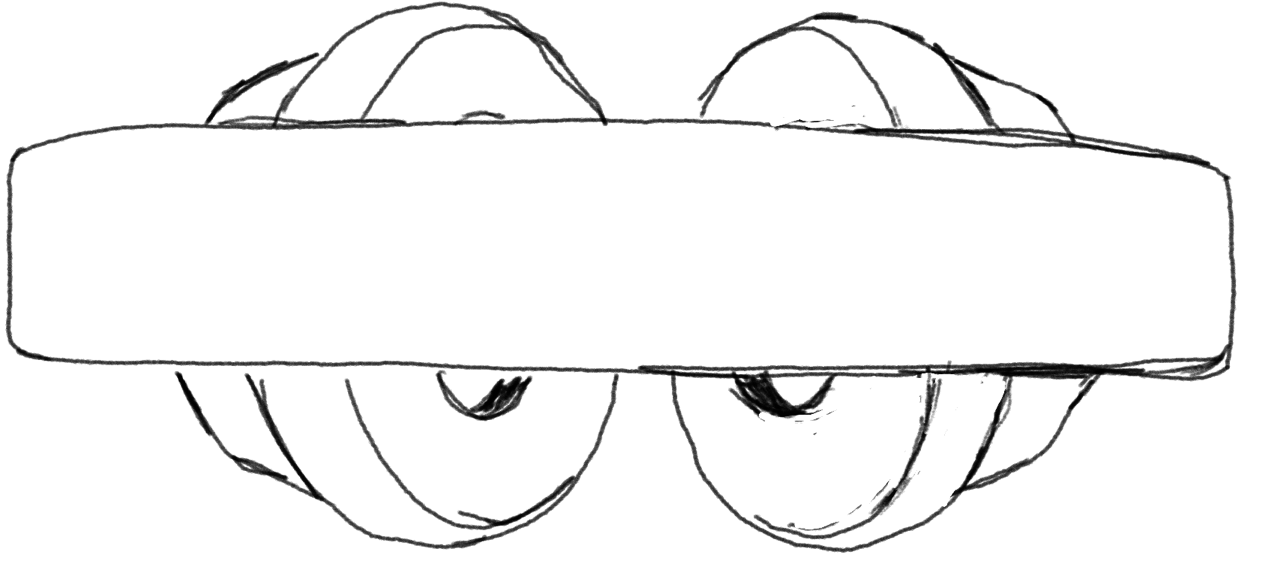
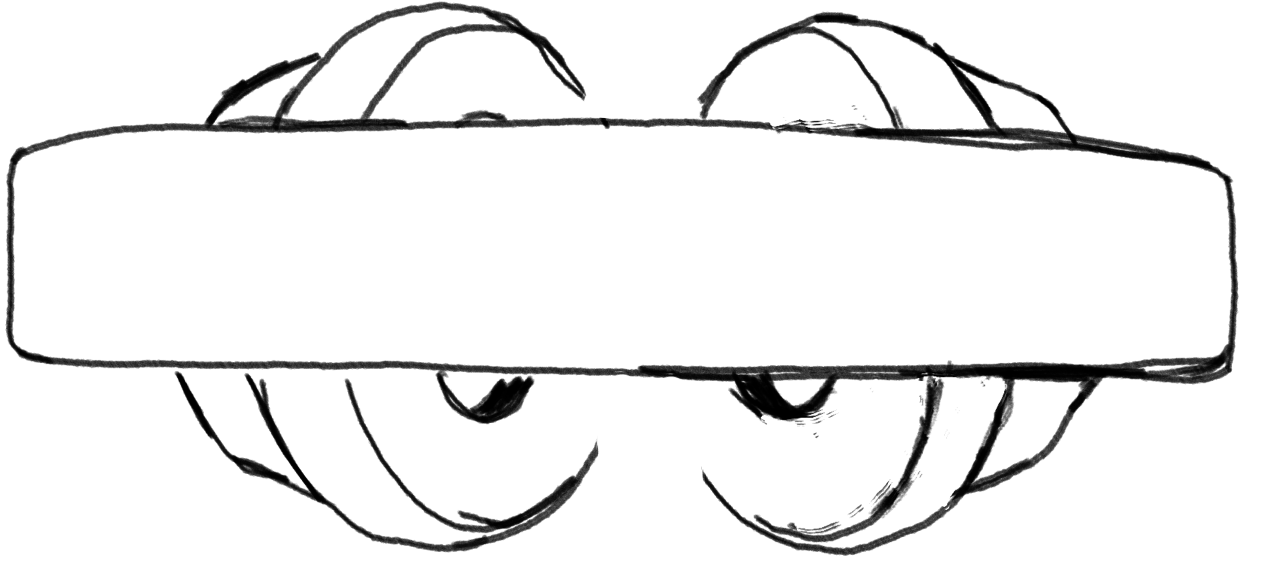
✨ Headphone stand!~

diff --git a/src/features/desk/presentation/headphones-lines.ts b/src/features/desk/presentation/headphones-lines.ts
@@ -1,4 +1,5 @@
 import type { CSSProperties } from 'react';
+import { color } from '../../../color.js';
 import { shade } from '../utils/color.js';
 
 export const HEADPHONES_LINE_COUNT = 3;
@@ -9,9 +10,17 @@ const HEADPHONES_FILL_RENDER_HEIGHT = 731;
 const HEADPHONES_LINE_RENDER_WIDTH = 1700;
 const HEADPHONES_LINE_RENDER_HEIGHT = 760;
 const HEADPHONES_LINE_OFFSET_X = 10;
-const HEADPHONES_LINE_OFFSET_Y = 4;
+const HEADPHONES_LINE_OFFSET_Y = 2;
+
+const HEADPHONES_STAND_SCALE = 1.7;
+const HEADPHONES_STAND_OFFSET_X = 12;
+const HEADPHONES_STAND_OFFSET_Y = -44;
+const HEADPHONES_STAND_RENDER_WIDTH = 515;
+const HEADPHONES_STAND_RENDER_HEIGHT = 752;
+
 const HEADPHONES_ASSET_PATH = 'lines/headphones';
 const HEADPHONES_ASSET_NAME = 'heaphones';
+const HEADPHONES_STAND_ASSET_PATH = 'lines/stand';
 
 type HeadphonesFillToneConfig = {
   name: 'light' | 'mid' | 'dark';
@@ -20,12 +29,14 @@ type HeadphonesFillToneConfig = {
 };
 
 export const HEADPHONES_FILL_TONES = [
-  { name: 'light', shade: 0, opacity: 0.45 },
   { name: 'mid', shade: -8, opacity: 1 },
   { name: 'dark', shade: -52, opacity: 1 },
 ] as const satisfies readonly HeadphonesFillToneConfig[];
 
 const HEADPHONES_LINE_SHADE = -88;
+const HEADPHONES_STAND_FILL_COLOR = color.accent.wood;
+const HEADPHONES_STAND_FILL_SHADE = 0;
+const HEADPHONES_STAND_LINE_SHADE = -40;
 
 type HeadphonesFillTone = (typeof HEADPHONES_FILL_TONES)[number]['name'];
 
@@ -79,6 +90,22 @@ export function getHeadphonesLineSrc(variant: number): string {
   return `${import.meta.env.BASE_URL}${HEADPHONES_ASSET_PATH}/${HEADPHONES_ASSET_NAME}-line-${variant}.png`;
 }
 
+export function getHeadphonesStandFillSrc(): string {
+  return `${import.meta.env.BASE_URL}${HEADPHONES_STAND_ASSET_PATH}/stand-fill.png`;
+}
+
+export function getHeadphonesStandFillColor(): string {
+  return shade(HEADPHONES_STAND_FILL_COLOR, HEADPHONES_STAND_FILL_SHADE);
+}
+
+export function getHeadphonesStandLineColor(): string {
+  return shade(HEADPHONES_STAND_FILL_COLOR, HEADPHONES_STAND_LINE_SHADE);
+}
+
+export function getHeadphonesStandLineSrc(variant: number): string {
+  return `${import.meta.env.BASE_URL}${HEADPHONES_STAND_ASSET_PATH}/stand-line-${variant}.png`;
+}
+
 export function getHeadphonesMaskStyle(
   src: string,
   backgroundColor: string,
@@ -113,6 +140,23 @@ export function getHeadphonesLineMaskStyle(
     height: `${(HEADPHONES_LINE_RENDER_HEIGHT / HEADPHONES_FILL_RENDER_HEIGHT) * 100}%`,
     transform: `translate(calc(-50% + ${HEADPHONES_LINE_OFFSET_X}px), calc(-50% + ${HEADPHONES_LINE_OFFSET_Y}px))`,
     transformOrigin: 'center center',
+  };
+}
+
+export function getHeadphonesStandMaskStyle(
+  src: string,
+  backgroundColor: string,
+  opacity = 1
+): CSSProperties {
+  return {
+    ...getHeadphonesMaskStyle(src, backgroundColor, opacity),
+    inset: undefined,
+    left: '50%',
+    top: 0,
+    width: `${((HEADPHONES_STAND_RENDER_WIDTH * HEADPHONES_STAND_SCALE) / HEADPHONES_FILL_RENDER_WIDTH) * 100}%`,
+    height: `${((HEADPHONES_STAND_RENDER_HEIGHT * HEADPHONES_STAND_SCALE) / HEADPHONES_FILL_RENDER_HEIGHT) * 100}%`,
+    transform: `translate(calc(-50% + ${HEADPHONES_STAND_OFFSET_X}px), ${HEADPHONES_STAND_OFFSET_Y}px)`,
+    transformOrigin: 'top center',
   };
 }
 

diff --git a/src/features/desk/renderers/headphones-renderer.tsx b/src/features/desk/renderers/headphones-renderer.tsx
@@ -4,13 +4,21 @@ import type { CSSProperties } from 'react';
 import { BoundingBoxDebug, useDebug } from '../../debug/index.js';
 import { Headphones, Position, Ref, Rotation } from '../traits/index.js';
 import {
-  getHeadphonesFillSrc,
+  getHeadphonesBoilPhaseOffset,
+  getHeadphonesBoilStartFrame,
   getHeadphonesFillToneColor,
   getHeadphonesFillToneOpacity,
   getHeadphonesFillToneSrc,
   getHeadphonesLineColor,
+  getHeadphonesLineVariant,
   getHeadphonesMaskStyle,
+  getHeadphonesStandFillColor,
+  getHeadphonesStandFillSrc,
+  getHeadphonesStandLineColor,
+  getHeadphonesStandLineSrc,
+  getHeadphonesStandMaskStyle,
   HEADPHONES_FILL_TONES,
+  HEADPHONES_LINE_COUNT,
 } from '../presentation/headphones-lines.js';
 import {
   getShadowBoilFrameStyle,
@@ -72,6 +80,7 @@ function HeadphonesView({ entity }: { entity: Entity }) {
           transform: 'translateZ(var(--headphones-z)) rotateZ(var(--headphones-rotate-z))',
         }}
       >
+        <HeadphonesStand headphonesId={headphones.id} />
         {HEADPHONES_FILL_TONES.map((tone) => (
           <div
             key={tone.name}
@@ -87,6 +96,41 @@ function HeadphonesView({ entity }: { entity: Entity }) {
           headphonesId={headphones.id}
           lineColor={getHeadphonesLineColor(headphones.fillColor)}
         />
+      </div>
+    </div>
+  );
+}
+
+function HeadphonesStand({ headphonesId }: { headphonesId: string }) {
+  const phaseOffset = getHeadphonesBoilPhaseOffset(headphonesId);
+  const startFrame = getHeadphonesBoilStartFrame(headphonesId);
+  const standLineColor = getHeadphonesStandLineColor();
+
+  return (
+    <div aria-hidden="true" className="pointer-events-none absolute inset-0 overflow-visible">
+      <div
+        className="absolute"
+        style={getHeadphonesStandMaskStyle(
+          getHeadphonesStandFillSrc(),
+          getHeadphonesStandFillColor()
+        )}
+      />
+      <div
+        className="paper-lines-boil pointer-events-none absolute inset-0 overflow-visible"
+        style={{ '--boil-phase': `${phaseOffset}s` } as CSSProperties}
+      >
+        {Array.from({ length: HEADPHONES_LINE_COUNT }, (_, frameIndex) => {
+          const boilFrame = frameIndex + startFrame;
+          const src = getHeadphonesStandLineSrc(getHeadphonesLineVariant(boilFrame));
+
+          return (
+            <div
+              key={frameIndex}
+              className={`paper-lines-boil-frame paper-lines-boil-frame--${frameIndex} absolute`}
+              style={getHeadphonesStandMaskStyle(src, standLineColor, 0.9)}
+            />
+          );
+        })}
       </div>
     </div>
   );
